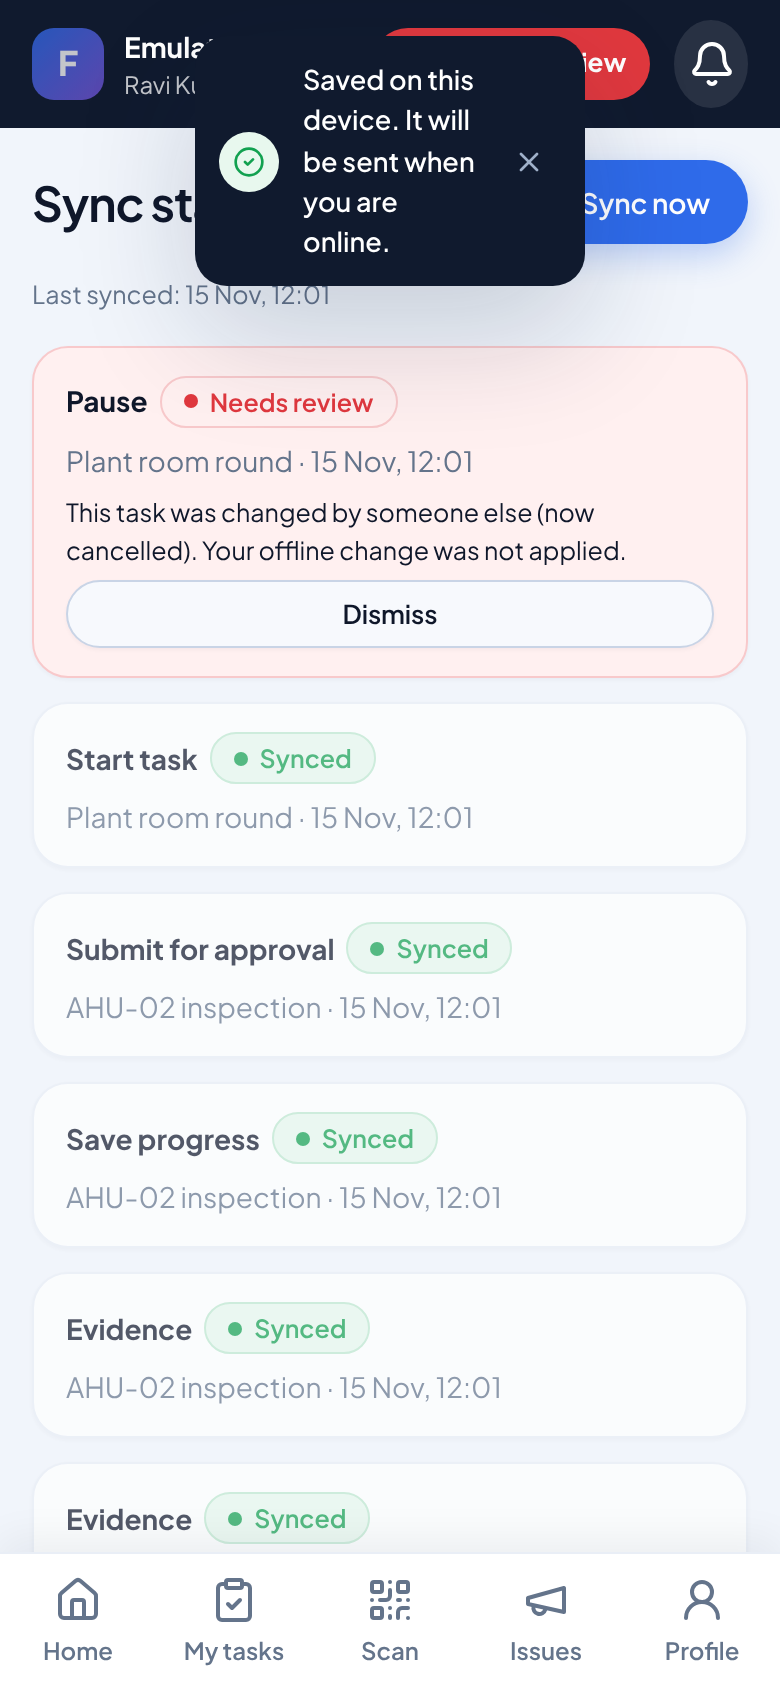
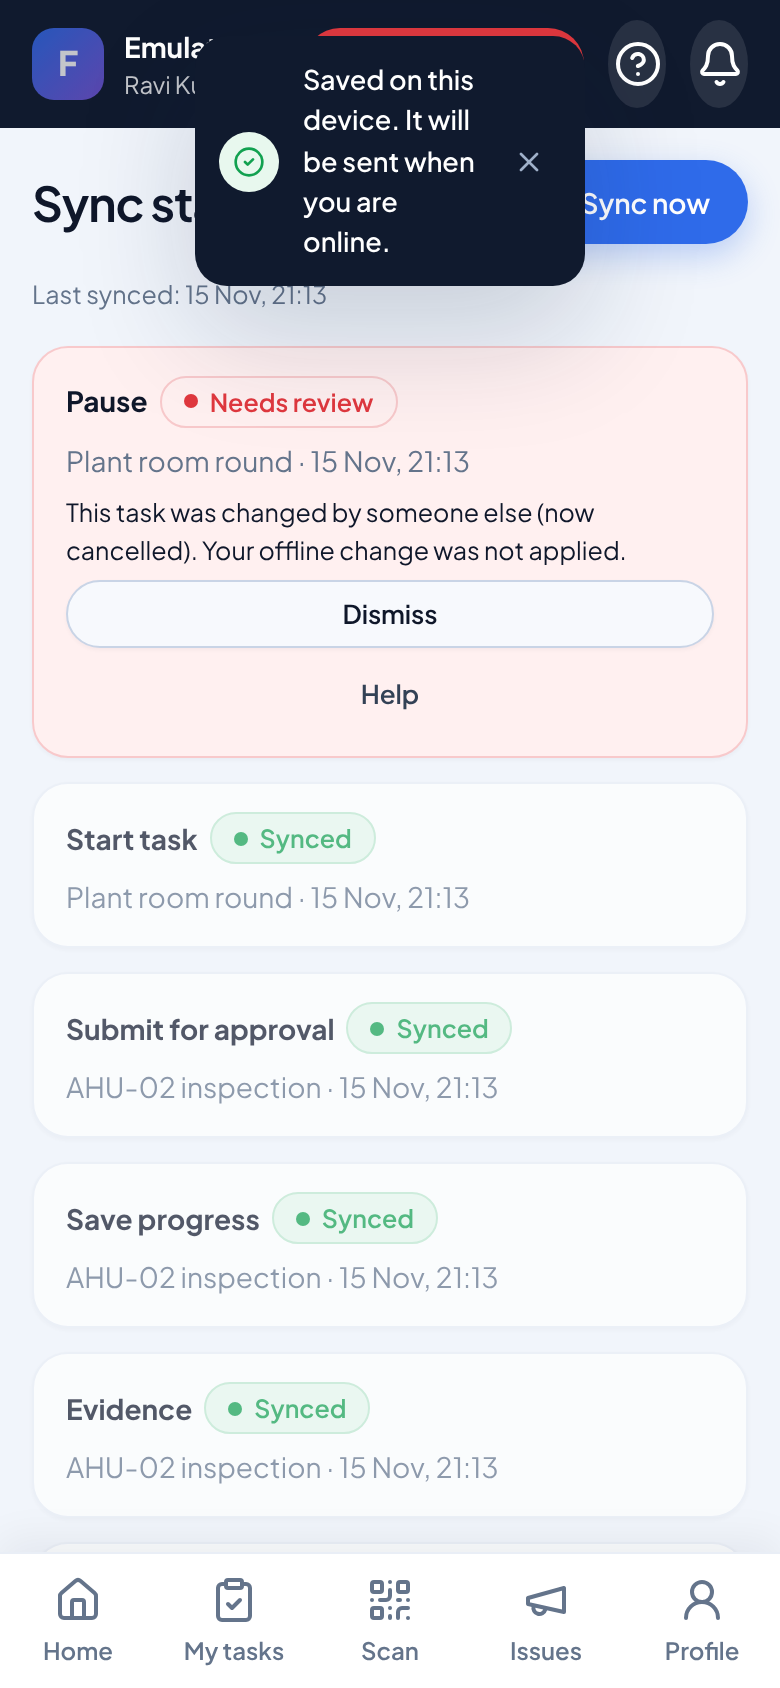
Phase 9: full regression green; fix time-of-day flake in the mobile runtime test
Claude-Session: https://claude.ai/code/session_01465nHL3o3ezZyA3GEjXGwg

diff --git a/scripts/mobile-runtime-test.ts b/scripts/mobile-runtime-test.ts
@@ -239,6 +239,10 @@ try {
   await saveDraft(db, C, owner, v, v.content, true);
   const local = (h: number) =>
     new Date(Date.now() + h * 3600000).toISOString().slice(0, 16);
+  // Keep both demo tasks on today's date in the company time zone (Asia/Dubai,
+  // UTC+4): late in the evening "+3 h" would fall on tomorrow and leave My Day.
+  const dubaiHour = (new Date().getUTCHours() + 4) % 24;
+  const [h1, h2] = dubaiHour >= 20 ? [-2, -1] : [2, 3];
   const base = {
     versionId: vid,
     siteId: site,
@@ -255,13 +259,13 @@ try {
     ...base,
     assetId: ahu,
     title: 'AHU-02 inspection',
-    dueAt: local(2),
+    dueAt: local(h1),
   });
   const t2 = await createTask(db, C, owner, {
     ...base,
     assetId: ahu,
     title: 'Plant room round',
-    dueAt: local(3),
+    dueAt: local(h2),
   });
   await linkStaff(db, C, owner, {
     uid: 'localtech',

diff --git a/docs/phase9-report.md b/docs/phase9-report.md
@@ -134,17 +134,20 @@ newest _What's new_ entry. Every page footer and PDF cover shows the version, pu
 
 ## Tests
 
-| Suite                                | Result                                                                                 |
-| ------------------------------------ | -------------------------------------------------------------------------------------- |
-| format:check, lint, typecheck        | pass                                                                                   |
-| Unit tests (`npm test`)              | 100 passed                                                                             |
-| `help:check`                         | pass — 164 articles, 45 diagrams, all links/screenshots/routes/coverage/help ids valid |
-| `test:help` (Phase 9 browser test)   | **19/19** (`docs/evidence/phase9/checks.txt`) — items 1–19 of the brief                |
-| Phase 1–4 browser (`test:browser`)   | 20/20 on the Phase 9 code (incl. phone overflow check)                                 |
-| Staff browser (`test:staff-browser`) | 10/10                                                                                  |
-| Phase 7 browser                      | 10/10                                                                                  |
-| Phase 8 browser, mobile runtime      | see the regression run below                                                           |
-| Rules (`test:rules`), migration      | see the regression run below                                                           |
+| Suite                                                                 | Result                                                                                                            |
+| --------------------------------------------------------------------- | ----------------------------------------------------------------------------------------------------------------- |
+| format:check, lint, typecheck                                         | pass                                                                                                              |
+| Unit tests (`npm test`)                                               | 100 passed                                                                                                        |
+| `help:check`                                                          | pass — 164 articles, 45 diagrams, all links/screenshots/routes/coverage/help ids valid                            |
+| `test:help` (Phase 9 browser test)                                    | **19/19** (`docs/evidence/phase9/checks.txt`) — items 1–19 of the brief                                           |
+| Phase 1–4 browser (`test:browser`)                                    | 20/20 on the Phase 9 code (incl. phone overflow check)                                                            |
+| Staff browser (`test:staff-browser`)                                  | 10/10                                                                                                             |
+| Phase 7 browser                                                       | 10/10                                                                                                             |
+| Phase 8 browser                                                       | 8/8                                                                                                               |
+| Mobile runtime                                                        | 8/8 (after fixing a time-of-day flake in the test: tasks due "now + 3 h" fell on tomorrow after 21:00 Dubai time) |
+| Rules (`test:rules`)                                                  | 117 passed                                                                                                        |
+| Migration (`test:migration`)                                          | pass                                                                                                              |
+| `npm run check` (lint, typecheck, unit, all builds incl. Help Center) | pass                                                                                                              |
 
 Phase 9 test items: 1 loads · 2 search (title, exact error message, nonsense) · 3 categories · 4 every internal link and asset
 in all ~970 pages resolves · 5 breadcrumbs · 6 contextual help for admin/staff/mobile/customer/help ids and the restricted
